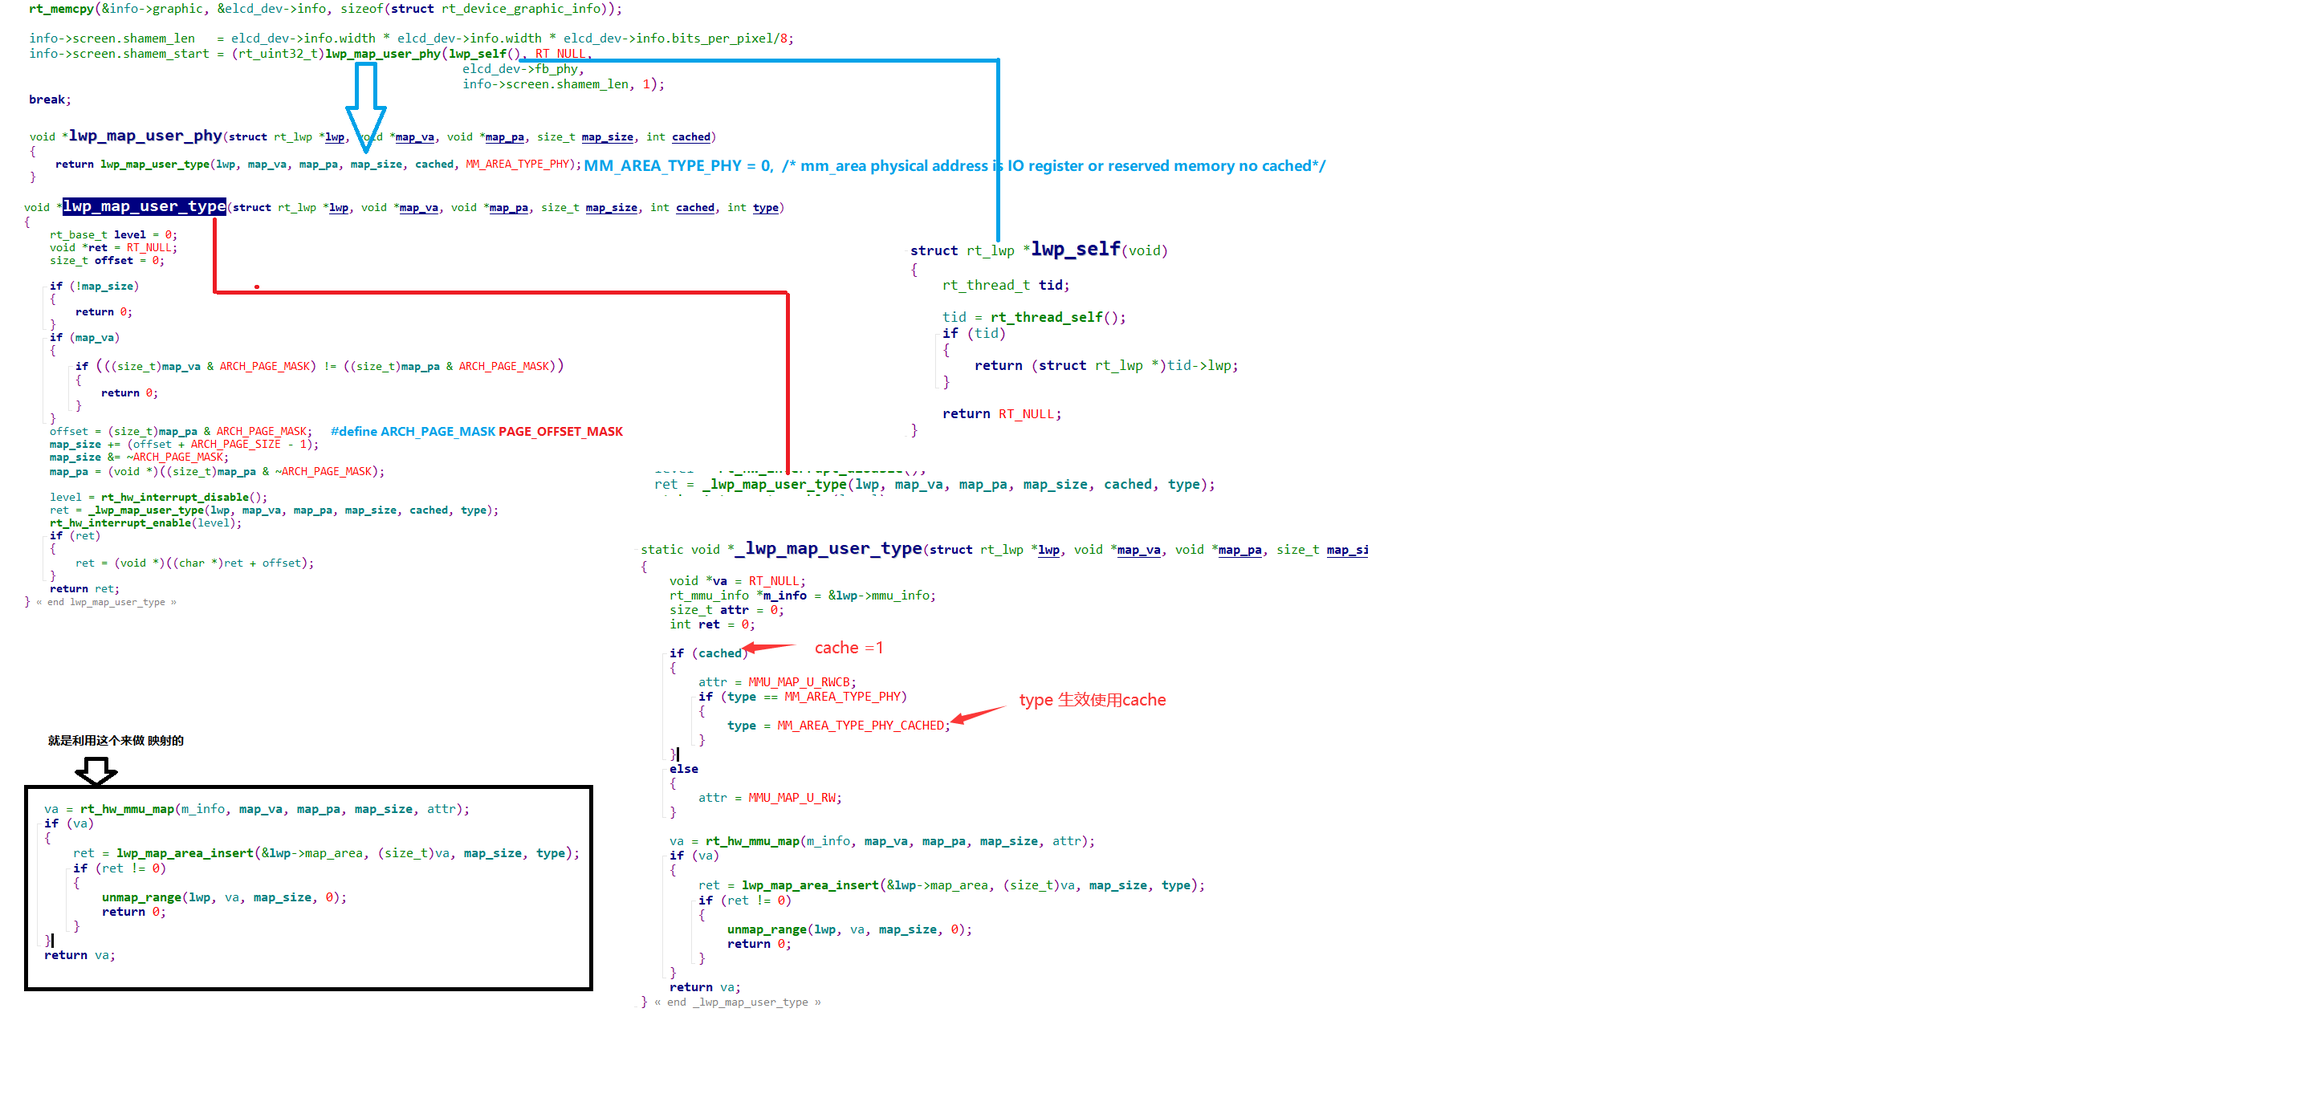
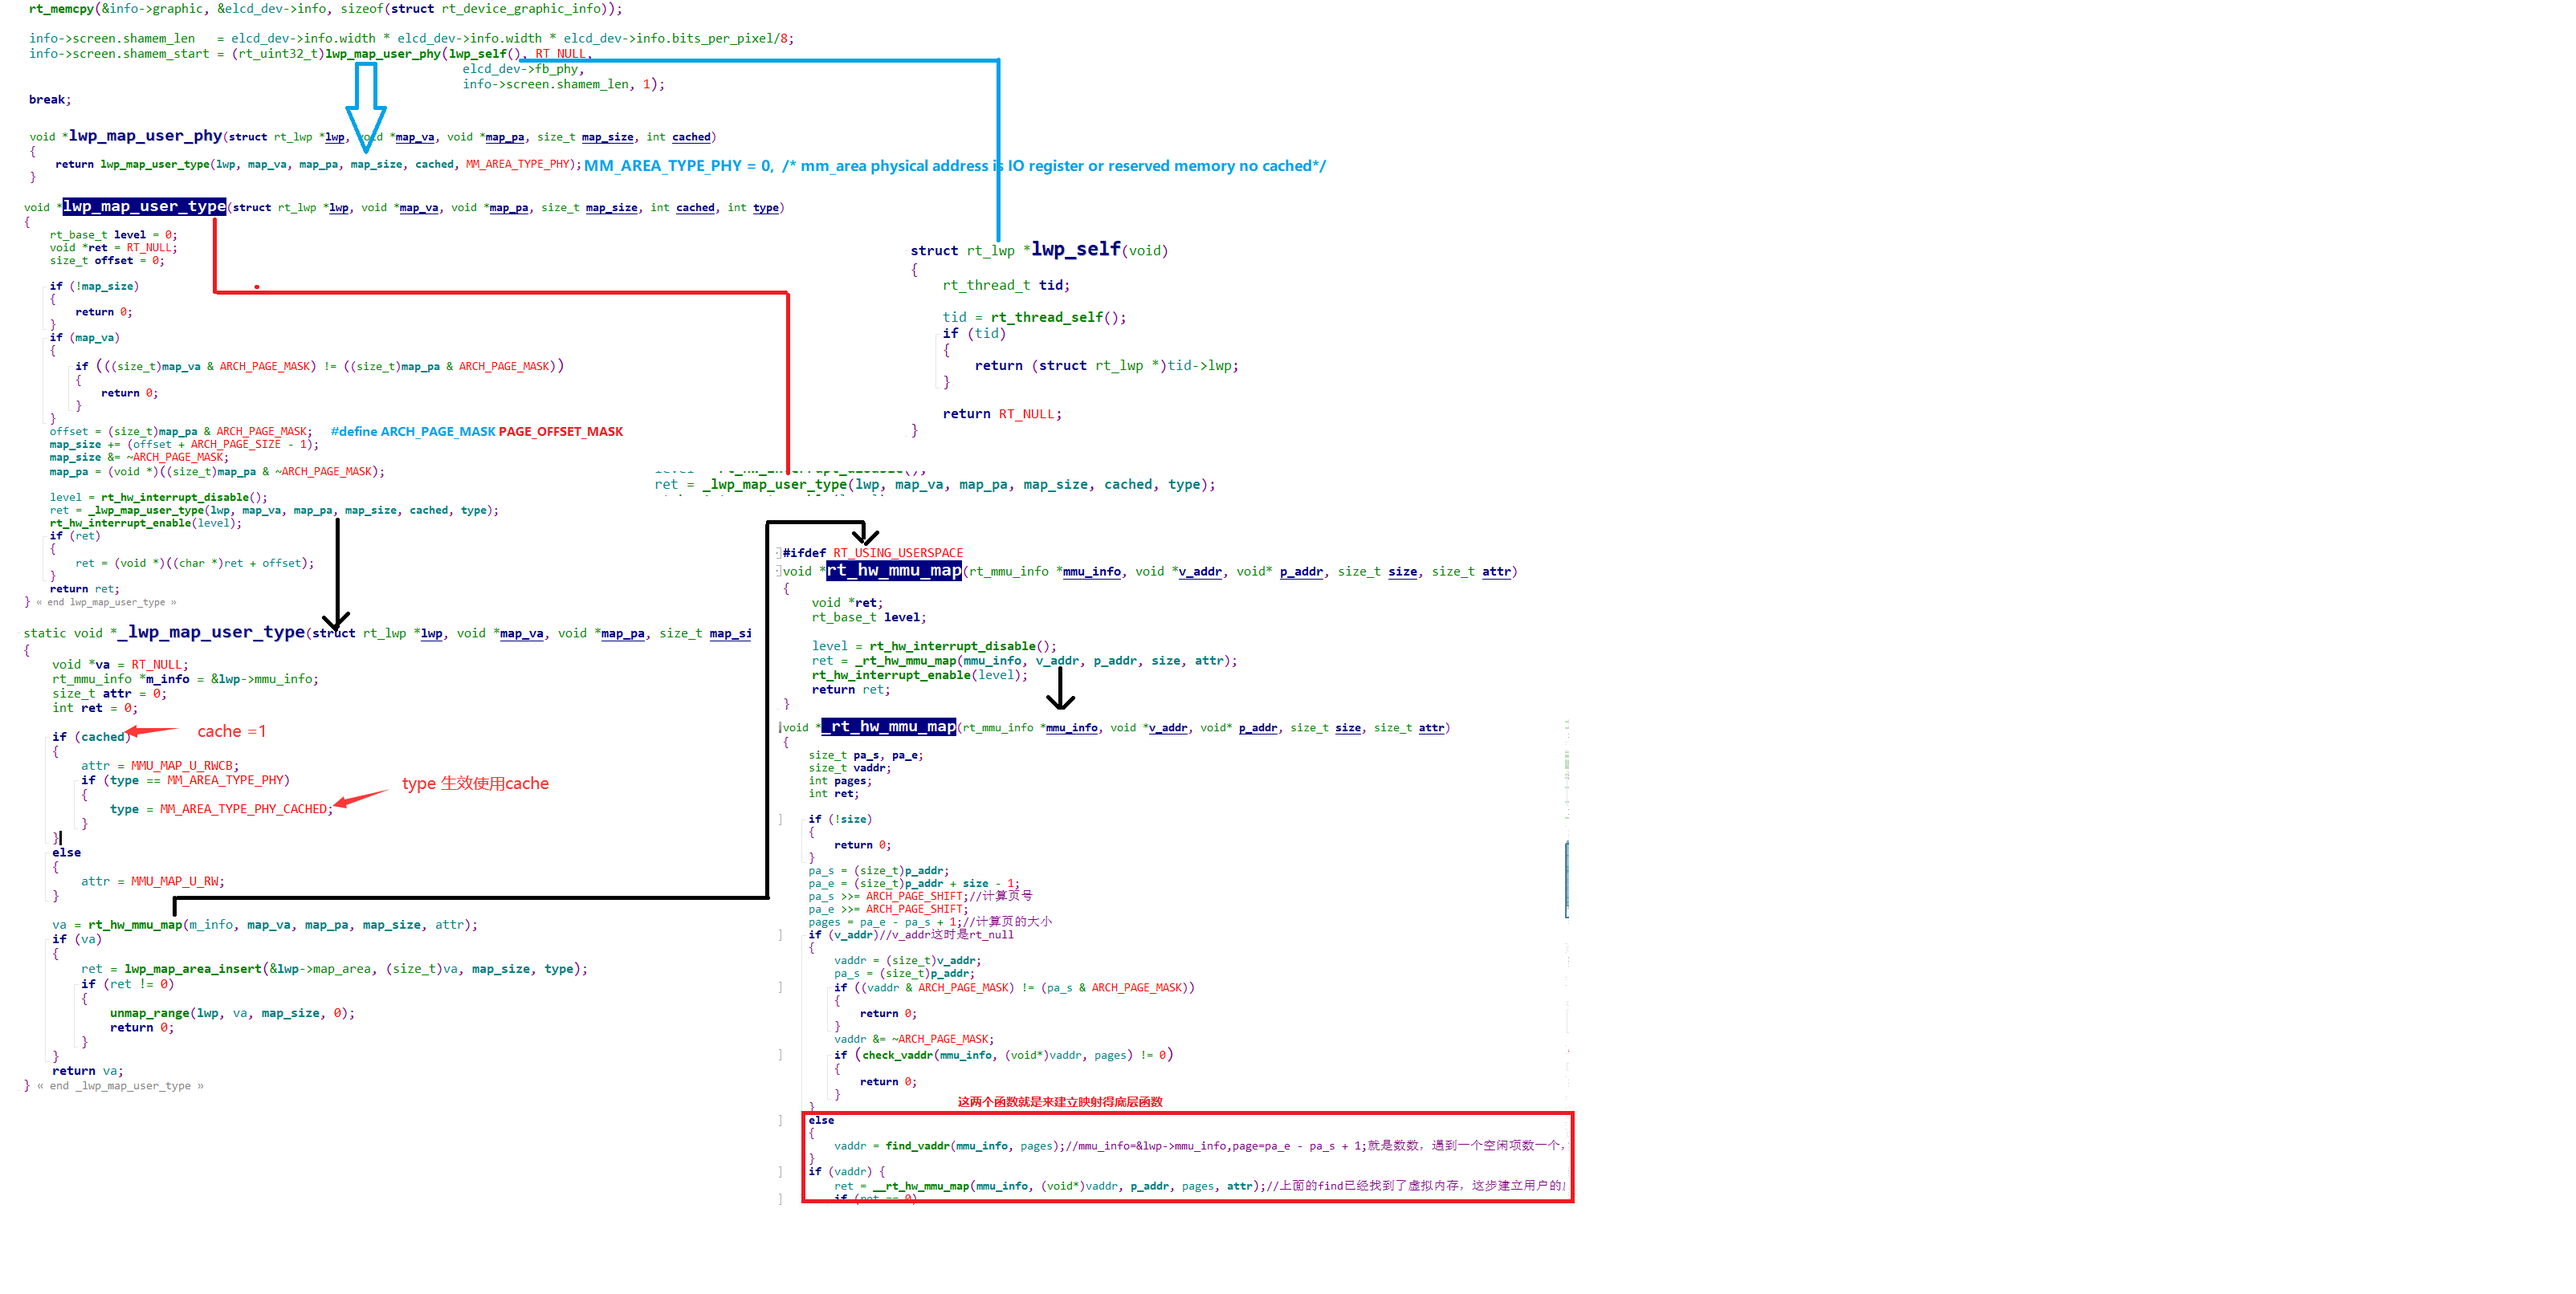
add rt_hw_mmu_map()

diff --git a/takenodt/lcd/__rt_hw_mmu_map()分析.md b/takenodt/lcd/__rt_hw_mmu_map()分析.md
@@ -1,0 +1,73 @@
+
+
+```c
+//映射页面
+static int __rt_hw_mmu_map(rt_mmu_info *mmu_info, void* v_addr, void* p_addr, size_t npages, size_t attr)
+{
+    size_t loop_va = (size_t)v_addr & ~ARCH_PAGE_MASK;//取出页号
+    size_t loop_pa = (size_t)p_addr & ~ARCH_PAGE_MASK;
+    size_t l1_off, l2_off;
+    size_t *mmu_l1, *mmu_l2;
+#ifndef RT_USING_USERSPACE
+    size_t *ref_cnt;
+#endif
+
+    if (!mmu_info)
+    {
+        return -1;
+    }
+
+    while (npages--)
+    {
+        l1_off = (loop_va >> ARCH_SECTION_SHIFT);
+        l2_off = ((loop_va & ARCH_SECTION_MASK) >> ARCH_PAGE_SHIFT);
+        mmu_l1 =  (size_t*)mmu_info->vtable + l1_off;//做映射
+		//先判断一级项有没有映射到二级页表
+        if (*mmu_l1 & ARCH_MMU_USED_MASK)
+        {
+        	//直接把二级页表取出来用
+            mmu_l2 = (size_t *)((*mmu_l1 & ~ARCH_PAGE_TBL_MASK) - mmu_info->pv_off);//做映射
+            rt_page_ref_inc(mmu_l2, 0);//统计页面加引用数
+        }
+				//没有就创建一个二级页表
+        else
+        {
+#ifdef RT_USING_USERSPACE
+            mmu_l2 = (size_t*)rt_pages_alloc(0);//分配内存页
+#else
+            mmu_l2 = (size_t*)rt_malloc_align(ARCH_PAGE_TBL_SIZE * 2, ARCH_PAGE_TBL_SIZE);//做内存对齐
+#endif
+            if (mmu_l2)
+            {
+                rt_memset(mmu_l2, 0, ARCH_PAGE_TBL_SIZE * 2);
+                /* cache maintain */
+                rt_hw_cpu_dcache_clean(mmu_l2, ARCH_PAGE_TBL_SIZE);//页表操作从cache同步到ram
+
+                *mmu_l1 = (((size_t)mmu_l2 + mmu_info->pv_off) | 0x1);
+                /* cache maintain */
+                rt_hw_cpu_dcache_clean(mmu_l1, 4);
+            }
+            else
+            {
+                /* error, unmap and quit */
+                __rt_hw_mmu_unmap(mmu_info, v_addr, npages);
+                return -1;
+            }
+        }
+
+#ifndef RT_USING_USERSPACE
+        ref_cnt = mmu_l2 + (ARCH_SECTION_SIZE / ARCH_PAGE_SIZE);
+        (*ref_cnt)++;
+#endif
+
+        *(mmu_l2 + l2_off) = (loop_pa | attr);//设置页面属性MMU_MAP_U_RWCB
+        /* cache maintain */
+        rt_hw_cpu_dcache_clean(mmu_l2 + l2_off, 4);
+
+        loop_va += ARCH_PAGE_SIZE;
+        loop_pa += ARCH_PAGE_SIZE;
+    }
+    return 0;
+}
+```
+  
